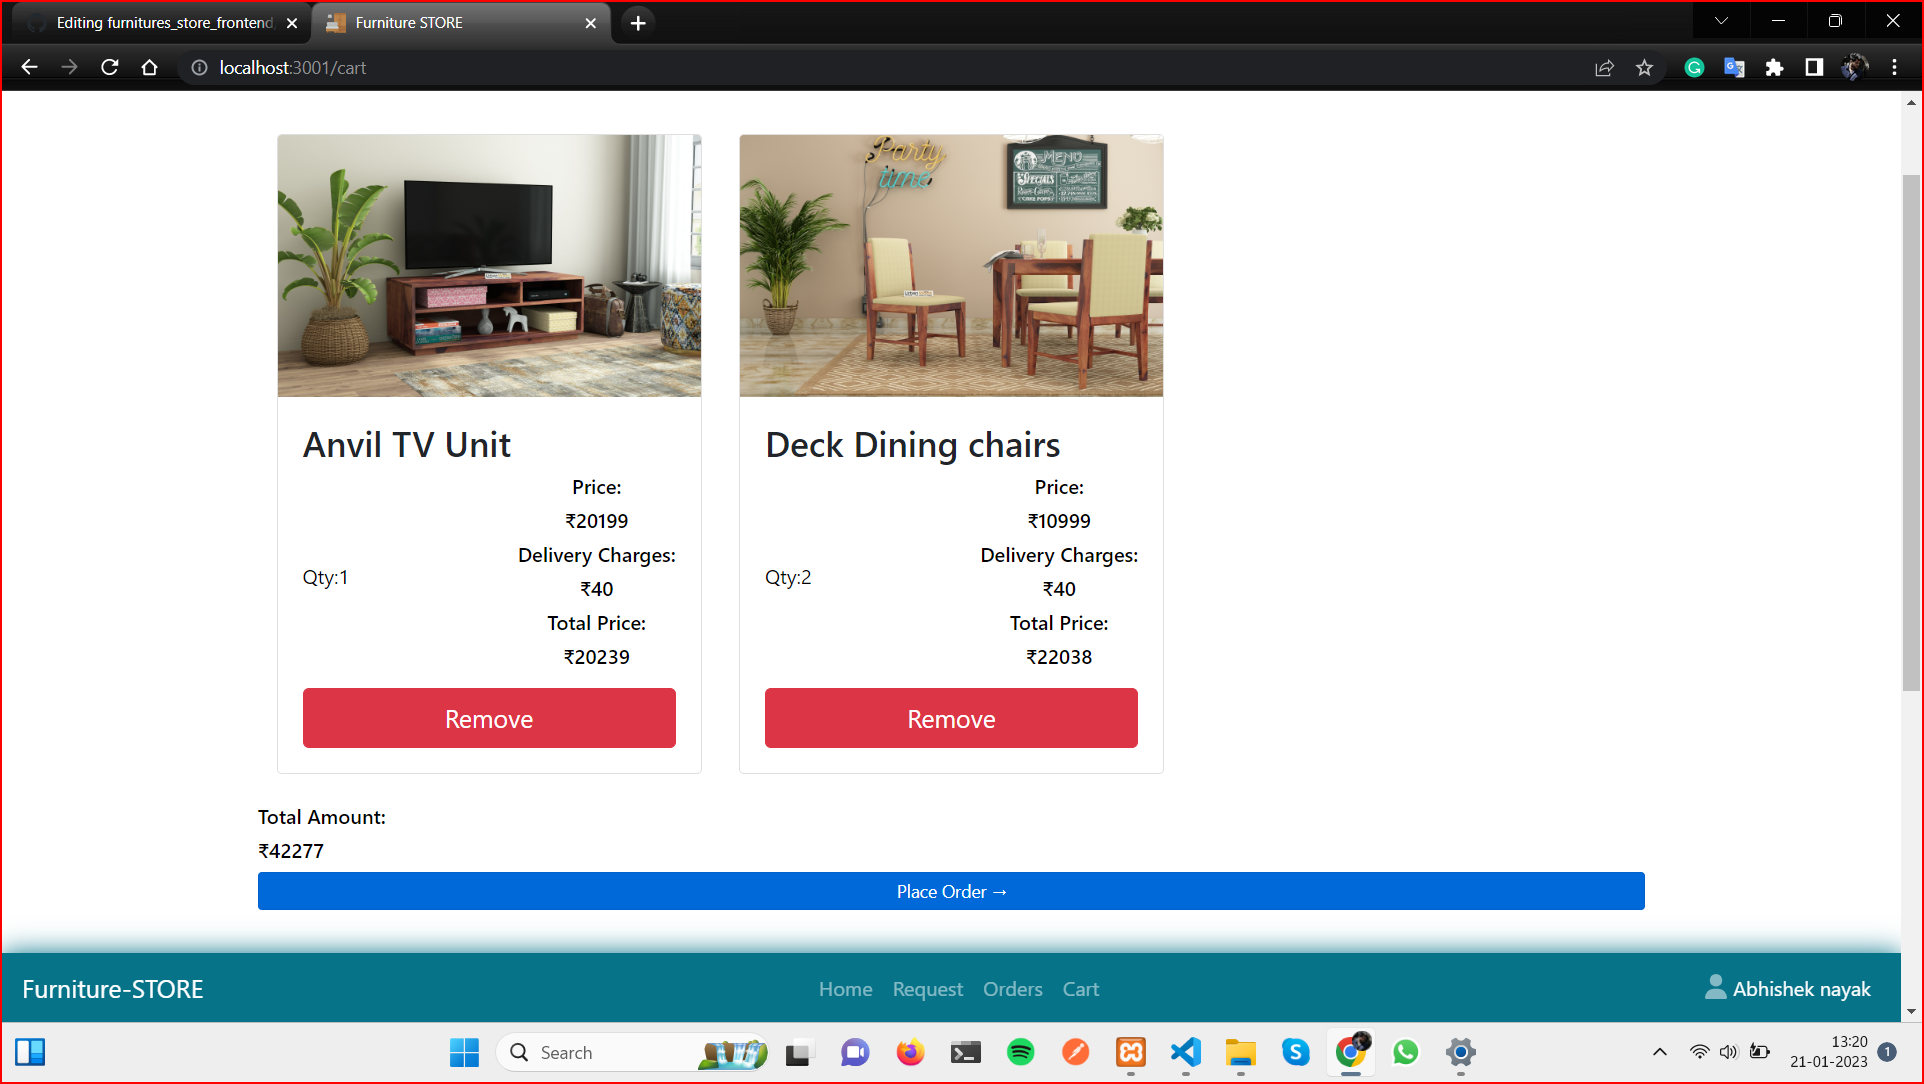
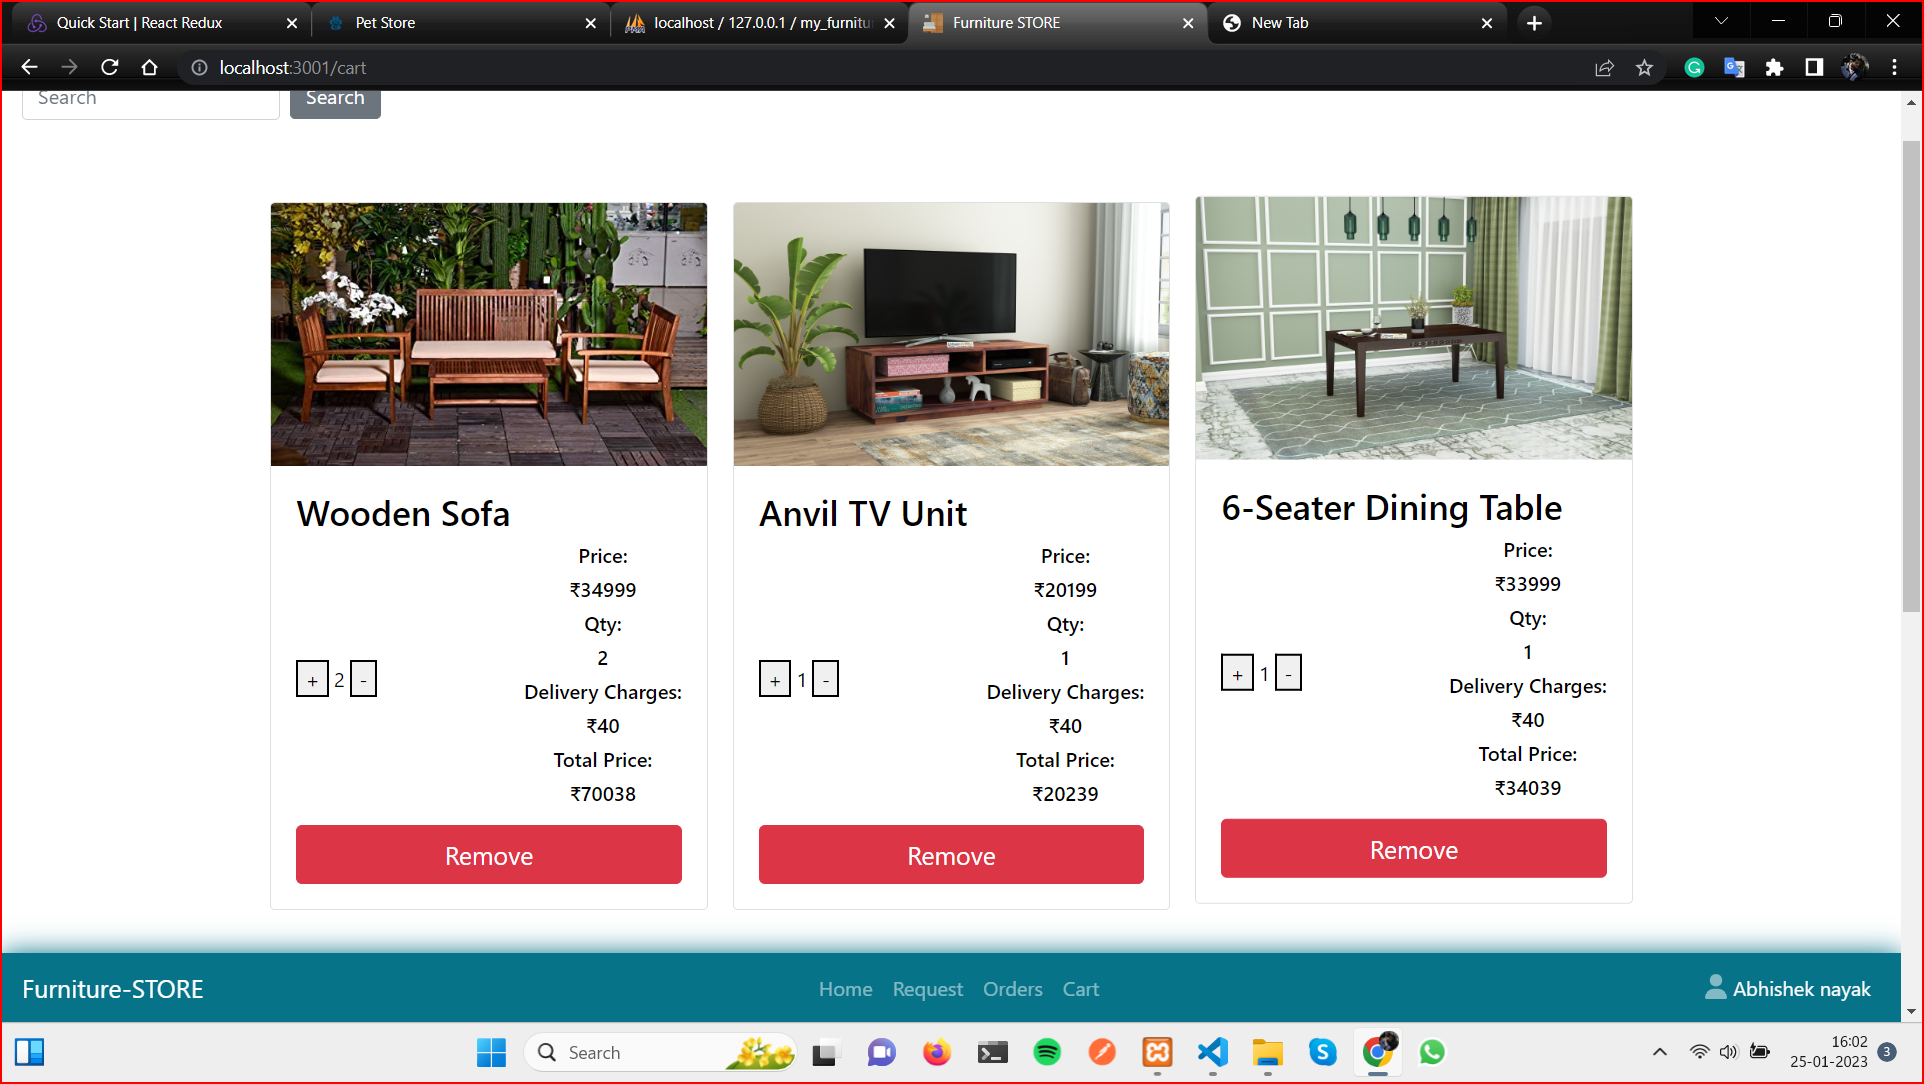
Furniture Store Frontend files

diff --git a/src/Pages/Cart.js b/src/Pages/Cart.js
@@ -2,10 +2,11 @@ import React, { useState, useEffect } from 'react'
 import { useSelector, useDispatch } from 'react-redux'
 import Header from '../Components/Header'
 import NavFooter from '../Components/NavFooter'
-import { deleteCartProducts, fetchCartItems } from '../Slices/CartSlice';
+import { deleteCartProducts, fetchCartItems, incrementAction } from '../Slices/CartSlice';
 import $ from 'jquery'
 import { Link } from 'react-router-dom';
 import Footer from '../Components/Footer';
+import { decrementAction } from '../Slices/counterSlice';
 
 
 function Cart() {
@@ -19,13 +20,16 @@ function Cart() {
 
     const cartProducts = useSelector((state) => state.cart.cart);
     console.log(cartProducts)
+    // const counter=useSelector((state)=>state.counter.value)
+    const [counter, setCounter] = useState('');
+    
 
     if (cartProducts.length === 0) {
         var total_price = 0, shippingPrice = 0;
     } else {
         var totalPrice = 0, shippingPrice = 40;
         for (let i = 0; i < cartProducts.length; i++) {
-            totalPrice += cartProducts[i].product_price * cartProducts[i].cart_quantity + shippingPrice;
+            totalPrice += cartProducts[i].product_price * cartProducts[i].cart_quantity  + shippingPrice;
         }
     }
 
@@ -55,6 +59,24 @@ function Cart() {
             alert('Cart is Empty')
         }
     }
+    const incrementBtn=(item)=>{debugger
+        setCounter(counter+1);debugger
+        let increaseItem={
+            userId:userID,
+            productId: item.product_id,
+            quantity:item.quantity
+        }
+        dispatch(incrementAction(increaseItem));debugger
+    }
+    const decrementBtn=(item)=>{
+        setCounter(counter-1)
+        let decreseItem={
+            userId:userID,
+            productId: item.product_id,
+            quantity:item.cart_quantity
+        }
+        dispatch(decrementAction(decreseItem))
+    }
     return (
         <div>
             <Header />
@@ -65,7 +87,7 @@ function Cart() {
                             {
                                 cartProducts.length > 0 ? (
                                     cartProducts.map((item) =>
-
+                                            
                                         <div key={item.id} class="col-md-4">
                                             <div class="card mb-4 box-shadow">
                                                 <Link style={{ textDecoration: 'none' }} to='/productdetails' state={item.id}>
@@ -75,12 +97,25 @@ function Cart() {
                                                 <div class="card-body">
                                                     <h3>{item.product_name}</h3>
                                                     <div class="d-flex justify-content-between align-items-center">
-                                                        <div class="d-flex">
-                                                            <p class="mt-3">Qty:{item.cart_quantity}</p>
+                                                        <div class="d-flex align-items-center">
+                                                            <button
+                                                                aria-label="Increment value"
+                                                                style={{ height: "fit-content" }}
+                                                            onClick={() => incrementBtn(item)}
+                                                            >+</button>
+                                                            <p class="mt-3 ml-1 mr-1" value={counter} onChange={(evt)=>setCounter(evt.target.value)}>{item.quantity}</p>
+                                                            <button
+                                                                style={{ height: "fit-content" }}
+                                                                aria-label="Decrement value"
+                                                            onClick={() =>decrementBtn(item)}
+                                                            >-</button>
+
                                                         </div>
                                                         <div className='d-flex flex-column align-items-center'>
                                                             <h6 class="color-primary">Price:</h6>
                                                             <h6>₹{item.product_price}</h6>
+                                                            <h6 class="color-primary">Qty:</h6>
+                                                            <h6>{item.cart_quantity}</h6>
                                                             <h6 class="color-primary ">Delivery Charges:</h6>
                                                             <h6>₹{shippingPrice}</h6>
                                                             <h6 class="color-primary">Total Price:</h6>
@@ -112,7 +147,7 @@ function Cart() {
                     </div>
                 </div>
             </div>
-            <Footer/>
+            <Footer />
             <NavFooter />
         </div>
     )

diff --git a/src/Pages/ProductInfo.js b/src/Pages/ProductInfo.js
@@ -15,7 +15,7 @@ export function ProductInfo() {
     var userId = items.user_id;
     
 
-    const [quantity, setQty] = useState('1')
+    // const [quantity, setQty] = useState('1')
 
     const location = useLocation()
     var id = location.state
@@ -25,7 +25,7 @@ export function ProductInfo() {
     }
     const products = useSelector((state) => state.product.products)
     console.log(products)
-
+    const [counter, setCounter] = useState(1);
     const dispatch = useDispatch()
 
     useEffect(() => {
@@ -38,13 +38,19 @@ export function ProductInfo() {
             user_id: userId,
             productId: item.id,
             product_name: item.product_name,
-            quantity: quantity,
+            quantity: counter,
             price: item.product_price
         }
         console.log(payloadCart)
         dispatch(addProductToCart(payloadCart))
     }
-
+    
+    const incrementBtn=()=>{
+        setCounter(counter+1);
+    }
+    const decrementBtn=()=>{
+        setCounter(counter-1)
+    }
 
     return (
         <div>
@@ -63,9 +69,23 @@ export function ProductInfo() {
                                     <h3>{products[0].product_name}</h3>
                                     <p class="card-text mt-2">{products[0].product_description}</p>
                                     <div class=" mt-2">
-                                        <div className='productQty d-flex align-items-center'>
+                                    {/* <div className='productQty d-flex align-items-center'>
                                             <h6 className='mr-2'>Quantity:</h6><input value={quantity} onChange={(evt) => setQty(evt.target.value)} />
-                                        </div>
+                                        </div> */}
+                                        <div class="d-flex align-items-center">
+                                                            <button
+                                                                aria-label="Increment value"
+                                                                style={{ height: "fit-content" }}
+                                                            onClick={() => incrementBtn()}
+                                                            >+</button>
+                                                            <p class="mt-3 ml-1 mr-1" value={counter} onChange={(evt)=>setCounter(evt.target.value)}>{counter}</p>
+                                                            <button
+                                                                style={{ height: "fit-content" }}
+                                                                aria-label="Decrement value"
+                                                            onClick={() =>decrementBtn()}
+                                                            >-</button>
+
+                                                        </div>
                                         <div className='d-flex align-items-center'>
                                             <h6 class="color-primary">Price:</h6>
                                             <h6>₹{products[0].product_price}</h6>

diff --git a/src/Slices/CartSlice.js b/src/Slices/CartSlice.js
@@ -6,16 +6,23 @@ export const cartSlice = createSlice({
   name: 'cart',
   initialState: {
     cart: [],
+    value:0
   },
   reducers: {
     getCartItems: (state, action) => {
       state.cart = action.payload
     },
+    setIncrement:(state,action)=>{
+      state.value=action.payload
+    },
+    setDecrement:(state,action)=>{
+      state.value=action.payload
+    }
   },
 }); 
 
 // Action creators are generated for each case reducer function
-export const { getCartItems } = cartSlice.actions
+export const { getCartItems,setIncrement,setDecrement } = cartSlice.actions
 
 export default cartSlice.reducer
 
@@ -56,5 +63,45 @@ export const deleteCartProducts=(dlt_payload)=>{
         if(data.status===200){
            window.location.reload()
         }
+  }
+}
+
+export const incrementAction=(payload)=>{debugger
+  return async function incrementAction(dispatch,getState){
+    let accessToken = JSON.parse(localStorage.getItem('accessToken')).response;debugger
+    const ajaxProps = {
+      method: 'post',
+      data: payload,
+      url: 'http://localhost:3000/api/increaseCartProduct',
+      headers: {
+        Authorization: `${accessToken}`
+      }
+    }
+      const {data}=await axios(ajaxProps);debugger
+      console.log(data.response);debugger
+      if(data.status===200){
+        dispatch(setIncrement(data.response))
+        window.location.reload();
+      }
+  }
+} 
+
+export const decrementAction=(payload)=>{
+  return async function decrementAction(dispatch,getState){
+    let accessToken = JSON.parse(localStorage.getItem('accessToken')).response;
+    const ajaxProps = {
+      method: 'post',
+      data: payload,
+      url: 'http://localhost:3000/api/decreaseCartProduct',
+      headers: {
+        Authorization: `${accessToken}`
+      }
+    }
+      const {data}=await axios(ajaxProps);
+      console.log(data.response)
+      if(data.status===200){
+        dispatch(setDecrement(data.response))
+        window.location.reload();
+      }
   }
 }

diff --git a/src/Slices/counterSlice.js b/src/Slices/counterSlice.js
@@ -1,0 +1,66 @@
+import { createSlice } from '@reduxjs/toolkit'
+import axios from 'axios'
+
+export const counterSlice = createSlice({
+  name: 'counter',
+  initialState: {
+    value: 1,
+  },
+  reducers: {
+    setIncrement: (state) => {
+      state.value += 1
+    },
+    setDecrement: (state) => {
+      state.value -= 1
+    },
+    incrementByAmount: (state, action) => {
+      state.value += action.payload
+    },
+  },
+})
+
+// Action creators are generated for each case reducer function
+export const { setIncrement, setDecrement, incrementByAmount } = counterSlice.actions
+
+export default counterSlice.reducer
+
+
+export const incrementAction=(payload)=>{
+    return async function incrementAction(dispatch,getState){
+      let accessToken = JSON.parse(localStorage.getItem('accessToken')).response;
+      const ajaxProps = {
+        method: 'post',
+        data: payload,
+        url: 'http://localhost:3000/api/increaseCartProduct',
+        headers: {
+          Authorization: `${accessToken}`
+        }
+      }
+        const {data}=await axios(ajaxProps);
+        console.log(data.response)
+        if(data.status===200){
+           dispatch( setIncrement(data.response))
+           window.location.reload();
+        }
+    }
+} 
+
+export const decrementAction=(payload)=>{
+    return async function decrementAction(dispatch,getState){
+      let accessToken = JSON.parse(localStorage.getItem('accessToken')).response;
+      const ajaxProps = {
+        method: 'post',
+        data: payload,
+        url: 'http://localhost:3000/api/decreaseCartProduct',
+        headers: {
+          Authorization: `${accessToken}`
+        }
+      }
+        const {data}=await axios(ajaxProps);
+        console.log(data.response)
+        if(data.status===200){
+           dispatch( setDecrement(data.response))
+           window.location.reload();
+        }
+    }
+}

diff --git a/src/store.js b/src/store.js
@@ -5,6 +5,7 @@ import cartReducer from './Slices/CartSlice'
 import placeOrderReducer from './Slices/PlaceorderSlice'
 import ordersReducer from './Slices/OrderSlice'
 import requestReducer from './Slices/RequestSlice'
+import counterReducer from './Slices/counterSlice'
 
 export default configureStore({
   reducer: {
@@ -13,6 +14,7 @@ export default configureStore({
     cart:cartReducer,
     placeorder:placeOrderReducer,
     order:ordersReducer,
-    request:requestReducer
+    request:requestReducer,
+    counter:counterReducer,
   },
 })
